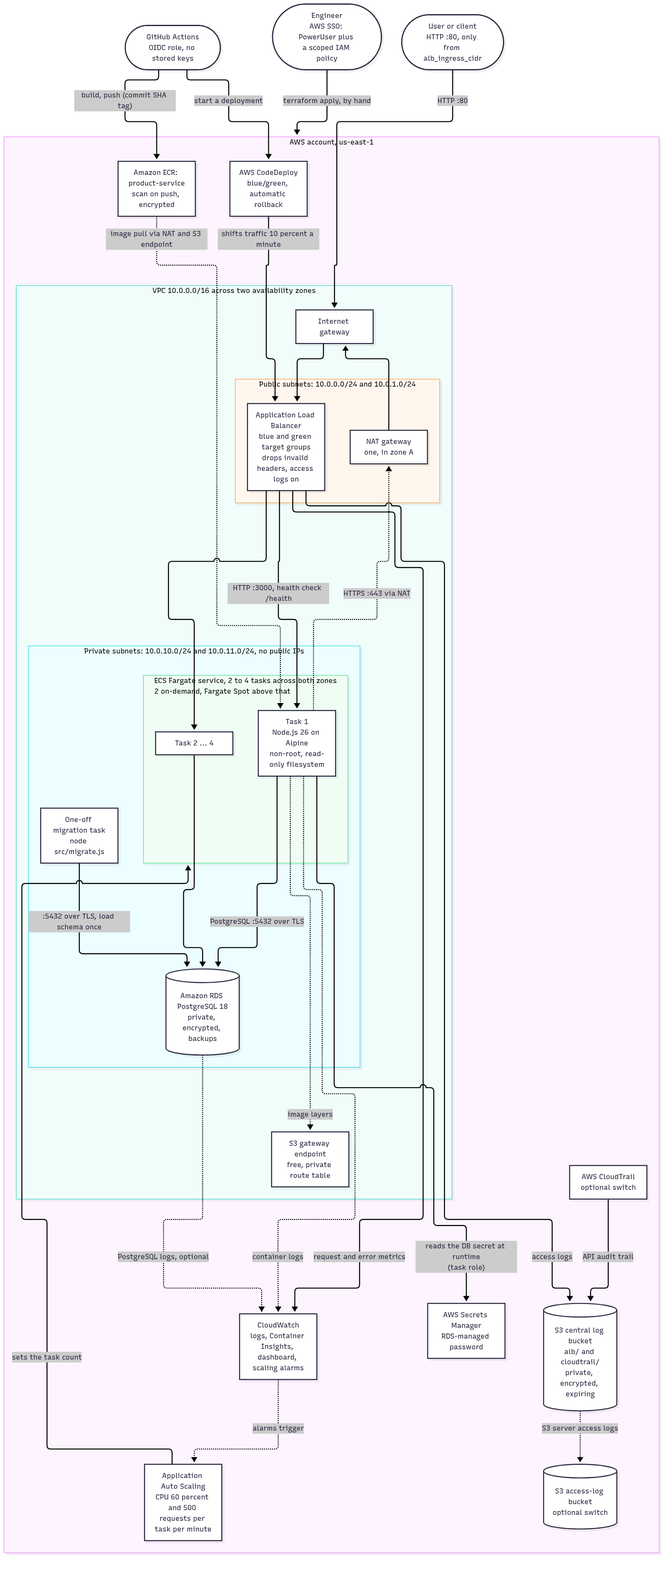
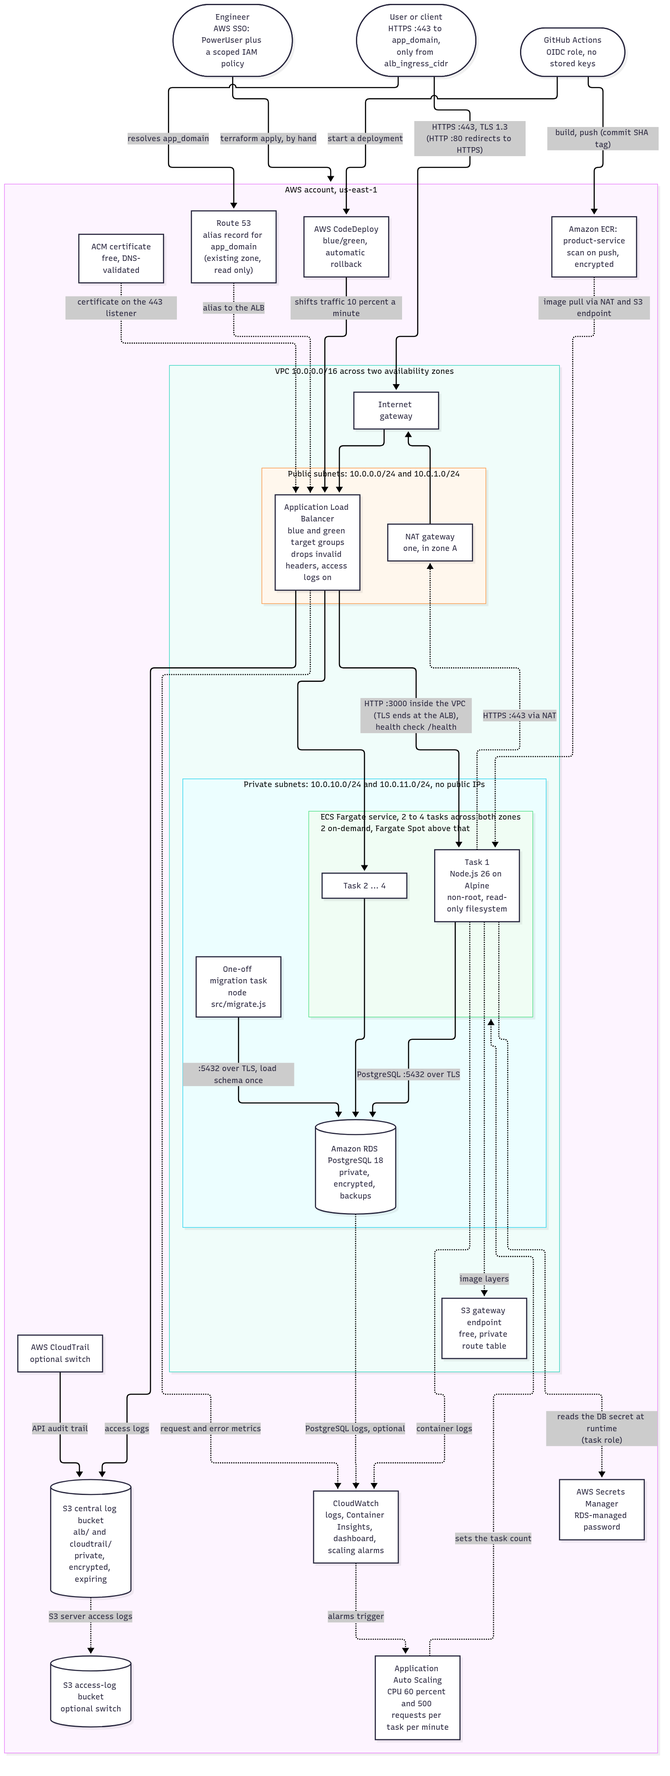
Document HTTPS as applied and update the architecture diagrams
HTTPS with an ACM certificate and a Route 53 name is live and verified (34 checks passed). Docs now describe
HTTPS :443 with a port-80 redirect, TLS ending at the ALB, and the first-apply results. The overview and
request-flow diagrams show Route 53, ACM and the HTTPS path; the HTTP-only gap rows are closed.

diff --git a/docs/Architecture.md b/docs/Architecture.md
@@ -24,7 +24,7 @@ This document explains each AWS service, and how the **principle of least privil
 
 ```mermaid
 flowchart TB
-  user(["User or client<br/>HTTP :80, only from alb_ingress_cidr"])
+  user(["User or client<br/>HTTPS :443 to app_domain,<br/>only from alb_ingress_cidr"])
   dev(["Engineer<br/>AWS SSO: PowerUser plus a scoped IAM policy"])
   gha(["GitHub Actions<br/>OIDC role, no stored keys"])
 
@@ -49,6 +49,8 @@ flowchart TB
       s3ep["S3 gateway endpoint<br/>free, private route table"]
     end
 
+    r53["Route 53<br/>alias record for app_domain<br/>(existing zone, read only)"]
+    acm["ACM certificate<br/>free, DNS-validated"]
     ecr["Amazon ECR: product-service<br/>scan on push, encrypted"]
     cd["AWS CodeDeploy<br/>blue/green, automatic rollback"]
     sm["AWS Secrets Manager<br/>RDS-managed password"]
@@ -59,8 +61,11 @@ flowchart TB
     acc[("S3 access-log bucket<br/>optional switch")]
   end
 
-  user -->|"HTTP :80"| igw --> alb
-  alb -->|"HTTP :3000, health check /health"| t1
+  user -.->|"resolves app_domain"| r53
+  r53 -.->|"alias to the ALB"| alb
+  user -->|"HTTPS :443, TLS 1.3<br/>(HTTP :80 redirects to HTTPS)"| igw --> alb
+  acm -.->|"certificate on the 443 listener"| alb
+  alb -->|"HTTP :3000 inside the VPC (TLS ends at the ALB),<br/>health check /health"| t1
   alb --> t2
   t1 -->|"PostgreSQL :5432 over TLS"| rds
   t2 --> rds
@@ -94,13 +99,16 @@ What happens on `GET /products`, and what each hop is allowed to do:
 sequenceDiagram
   autonumber
   participant C as Client
+  participant R as Route 53
   participant ALB as ALB (public subnet)
   participant T as ECS task (private subnet)
   participant DB as RDS PostgreSQL (private subnet)
   participant L as S3 log bucket
 
-  C->>ALB: GET /products (HTTP :80)
-  Note over C,ALB: ALB security group accepts port 80 only from alb_ingress_cidr
+  C->>R: resolve app_domain
+  R-->>C: ALB address (alias record)
+  C->>ALB: GET /products (HTTPS :443, TLS 1.3, ACM certificate)
+  Note over C,ALB: ALB security group accepts 443 (and 80, which only redirects to HTTPS) from alb_ingress_cidr
   ALB-->>L: access log line (client, target, status, timings)
   ALB->>T: forward to :3000
   Note over ALB,T: app security group accepts :3000 only from the ALB security group
@@ -157,7 +165,7 @@ Infrastructure changes (Terraform) are still reviewed and applied by hand; the p
 | **NAT gateway** | Lets private tasks reach AWS service endpoints over HTTPS | One, in zone A, with an Elastic IP | Outbound only: nothing on the internet can start a connection to a task. A single NAT is a resilience gap. |
 | **S3 gateway endpoint** | Carries ECR image-layer traffic to S3 | Free; attached to the private route table | Pulls stay on the AWS network and bypass the NAT |
 | **Security groups** | Stateful firewalls for each tier | `alb`, `app`, `db`, chained (see [section 7](#7-network-security)) | Each accepts traffic only from the tier in front of it; every rule has a description |
-| **Application Load Balancer** | The only public entry point; spreads traffic over the tasks and checks their health | HTTP :80 listener, target group on :3000 with `/health` checks, 30-second connection draining, access logs on | Source range limited by `alb_ingress_cidr`; drops invalid HTTP headers. HTTP only and no authentication are gaps. |
+| **Application Load Balancer** | The only public entry point; spreads traffic over the tasks and checks their health | HTTPS :443 listener with an ACM certificate (TLS 1.3 policy), HTTP :80 listener that only redirects, target group on :3000 with `/health` checks, 30-second connection draining, access logs on | Source range limited by `alb_ingress_cidr`; drops invalid HTTP headers. TLS ends at the ALB (ALB to task is plain HTTP inside the VPC). No authentication is a gap. |
 | **Amazon ECS on AWS Fargate** | Runs the containers with no servers to manage | Cluster with Container Insights; service of 2 to 4 tasks; 0.25 vCPU and 512 MB each; CodeDeploy blue/green with automatic rollback (the deployment circuit breaker when `enable_blue_green` is off); 60-second health-check grace period; capacity providers `FARGATE` and `FARGATE_SPOT`, with an optional on-demand-plus-Spot strategy (`enable_fargate_spot`, off by default; see [Fargate_Spot.md](Fargate_Spot.md)) | `awsvpc` networking, no public IPs, non-root user, read-only root filesystem, no ECS Exec, task role with no permissions |
 | **Amazon ECR** | Stores the container image | Repository `product-service`, scan on push, AES-256 encryption, keeps the last 10 images | Private; pulled only by the execution role. Mutable tags are a gap. |
 | **Amazon RDS for PostgreSQL** | Stores the products | PostgreSQL 18.6 on `db.t4g.micro`, 20 GB gp3, single-AZ, 7-day backups, tags copied to snapshots | In private subnets, **not publicly accessible**, encrypted at rest, reachable only from the app security group, no outbound rules |
@@ -229,7 +237,7 @@ flowchart TB
 |---|---|---|
 | **0. Supply chain and code** | Secret scanner as a pre-commit hook; `.gitignore` for keys, state and `*.tfvars`; pinned Node and Alpine images; Trivy and `npm audit` on the image; Trivy and Checkov on Terraform; a multi-stage build that leaves npm out; saved plans | Secrets in git, vulnerable dependencies and base images, insecure infrastructure code, unreviewed changes |
 | **1. Identity and governance** | SSO sign-in; the engineer's IAM policy limited to `product-service-*` roles; trust policies requiring `aws:SourceAccount` and `aws:SourceArn`; a budget alert | Stolen long-lived keys, privilege escalation through role creation, the confused-deputy problem, runaway cost |
-| **2. Perimeter** | The ALB is the only internet-facing resource; `alb_ingress_cidr` limits who can reach it; invalid headers are dropped | Direct access to tasks or the database, malformed-request attacks. *Gap: HTTP only, no authentication, no WAF.* |
+| **2. Perimeter** | The ALB is the only internet-facing resource; `alb_ingress_cidr` limits who can reach it; invalid headers are dropped | Direct access to tasks or the database, malformed-request attacks. *Gap: no authentication, no WAF.* |
 | **3. Network segmentation** | Tasks and database in private subnets with no public IPs; security groups that only accept the previous tier; app egress only to 443 and the database; no database egress; S3 gateway endpoint | Lateral movement, data exfiltration over unexpected ports, inbound connections to private resources |
 | **4. Workload** | Non-root `node` user; read-only root filesystem; minimal image with no npm, npx, corepack or yarn; task role limited to the one database secret; no ECS Exec; health checks; CodeDeploy blue/green with automatic rollback (the ECS circuit breaker is used only when `enable_blue_green` is off) | A compromised container being able to write files, escalate, call AWS APIs, or stay broken after a bad release |
 | **5. Data** | RDS encrypted at rest and private; TLS to the database; password only in Secrets Manager; private encrypted S3 buckets with a TLS-only policy; 7-day backups | Reading data at rest or in transit, leaked credentials, public log buckets |
@@ -283,7 +291,7 @@ Traffic is allowed only from the tier in front, and only on the port needed.
 
 Other network controls: tasks and the database have no public IPs; the private route table reaches the internet only through the NAT gateway (outbound only); an S3 gateway endpoint keeps image-layer traffic off the NAT; the load balancer drops invalid HTTP headers.
 `alb_ingress_cidr` is a **required** variable with no default, and `0.0.0.0/0` is refused unless `allow_public_alb = true`, so an open load balancer is always deliberate. (This was added after a plan without the settings file silently fell back to an open default and reopened the load balancer during the AWS test; see [E2E_Test_Results.md](E2E_Test_Results.md).)
-**Gaps:** traffic to the ALB is plain HTTP and the API has no authentication; the 443 egress rule allows any destination.
+**Gaps:** the API has no authentication; the 443 egress rule allows any destination; traffic from the ALB to the tasks is plain HTTP inside the VPC (TLS ends at the ALB).
 
 ## 8. Data protection
 
@@ -293,7 +301,7 @@ Other network controls: tasks and the database have no public IPs; the private r
 | Database credentials | In Secrets Manager, created and managed by RDS, rotated automatically every 7 days (the secret's metadata shows a first rotation shortly after creation; a forced rotation was tested live: a retry race was found and fixed, and the re-test passed; see [Secrets.md](Secrets.md#live-rotation-test)) | Fetched by the app at runtime over TLS with its task role, and again after a rotation ([Secrets.md](Secrets.md)) | The task role, for that one secret; never in code, image, task definition, variables or state |
 | Container image | ECR, AES-256 | Pulled over HTTPS | The execution role |
 | Log files (S3) | SSE-S3, public access blocked, expiring | TLS-only bucket policy | Narrow per-writer policy statements |
-| Client traffic | n/a | **HTTP only** (gap: needs a domain and an ACM certificate) | Limited by `alb_ingress_cidr` Update: `enable_https` is written (off by default, not yet applied): see [HTTPS_and_Domain.md](HTTPS_and_Domain.md). |
+| Client traffic | n/a | **HTTPS** (TLS 1.3, ACM certificate) at `app_domain`; HTTP :80 only redirects. Applied and verified 2026-11-01 ([HTTPS_and_Domain.md](HTTPS_and_Domain.md)) | Limited by `alb_ingress_cidr` |
 
 ## 9. Logging, monitoring and detection
 
@@ -359,7 +367,7 @@ These are deliberate demo trade-offs or work not yet done. The full table, with 
 
 | Gap | Why it matters |
 |---|---|
-| HTTP only, no authentication, no WAF | Traffic is unencrypted and anyone allowed through the security group can read the products. The fix needs a domain and certificate. Update: an HTTPS switch is written, not yet applied ([HTTPS_and_Domain.md](HTTPS_and_Domain.md)); authentication and a WAF are still open. |
+| No authentication, no WAF | Anyone allowed through the security group can read the products. The load balancer admits only `alb_ingress_cidr` by default, because of this. (HTTPS is done: see [HTTPS_and_Domain.md](HTTPS_and_Domain.md).) |
 | Database TLS does not verify the server certificate | A network-position attacker could in theory impersonate the database |
 | Mutable ECR tags | `latest` can be overwritten, and rollbacks by tag are unreliable |
 | Single NAT gateway and single-AZ RDS | Not resilient to a zone failure |

diff --git a/README.md b/README.md
@@ -18,7 +18,7 @@ The complete picture, with every AWS service, the request and deployment flows, 
 
 ```mermaid
 flowchart LR
-  C["Client"] -->|"HTTP :80"| ALB["Application Load Balancer<br/>public subnets"]
+  C["Client"] -->|"HTTPS :443 (80 redirects)"| ALB["Application Load Balancer<br/>public subnets"]
   ALB -->|":3000, /health checks"| T["ECS Fargate tasks (2 to 4)<br/>private subnets<br/>Node.js 26, non-root"]
   AS["Application Auto Scaling<br/>target tracking: CPU 60%,<br/>500 requests per task per minute"] -.->|"sets the task count"| T
   ALB -.->|"RequestCountPerTarget<br/>and task CPU metrics"| AS
@@ -52,7 +52,7 @@ flowchart LR
 | Area | What is in place |
 |---|---|
 | **Network exposure** | Only the ALB is public. Tasks and the database are in private subnets with no public IPs, and the database has `publicly_accessible = false`. |
-| **Security groups** | Internet → ALB (80) → app (3000) → database (5432). The database group admits only the app group, and the ALB can only send to port 3000 inside the VPC. The app group's outbound rules allow only TCP 443 (AWS services) and PostgreSQL to the database group. The ALB's source range is a **required** variable (`alb_ingress_cidr`, no default), and `0.0.0.0/0` is refused unless `allow_public_alb = true`, so an open load balancer is always a deliberate choice. (A plan once silently fell back to an open default during the AWS test; see [docs/E2E_Test_Results.md](docs/E2E_Test_Results.md#incident-the-alb-was-briefly-open-to-the-internet).) |
+| **Security groups** | Internet → ALB (443, and 80 which only redirects) → app (3000) → database (5432). The database group admits only the app group, and the ALB can only send to port 3000 inside the VPC. The app group's outbound rules allow only TCP 443 (AWS services) and PostgreSQL to the database group. The ALB's source range is a **required** variable (`alb_ingress_cidr`, no default), and `0.0.0.0/0` is refused unless `allow_public_alb = true`, so an open load balancer is always a deliberate choice. (A plan once silently fell back to an open default during the AWS test; see [docs/E2E_Test_Results.md](docs/E2E_Test_Results.md#incident-the-alb-was-briefly-open-to-the-internet).) |
 | **IAM trust and deployments** | Both ECS roles can only be assumed by ECS acting for tasks in this account (`aws:SourceAccount` and `aws:SourceArn` conditions). The ECS service has a deployment circuit breaker with automatic rollback. An S3 gateway endpoint keeps image-layer pulls off the NAT gateway. |
 | **Database credentials** | `manage_master_user_password = true`: RDS generates the password and stores it in Secrets Manager. The credentials are never in code, variables, the image, the task definition or the Terraform state. The app reads the secret itself at runtime with its task role, and fetches it again after a rotation (see [docs/Secrets.md](docs/Secrets.md)). |
 | **Encryption** | RDS storage is encrypted. The app connects to RDS over TLS (`DB_SSL` defaults to on). ECR is encrypted at rest. |
@@ -89,7 +89,7 @@ What is still open after the scans in [docs/vulnerability-scan-report.md](docs/v
 | Risk | Gap | Detail | Planned fix |
 |---|---|---|---|
 | Medium | **No authentication on the API** | Anyone who can reach the ALB can read `/products` | A Cognito or JWT authorizer, or restrict the ALB by CIDR |
-| Medium | **HTTP only** | Traffic between the client and the ALB is unencrypted (Trivy CRITICAL AWS-0054; Checkov CKV_AWS_2 and related) | ACM certificate, HTTPS listener and an HTTP redirect (needs a domain) **Update:** an `enable_https` switch (ACM certificate, 443 listener, redirect, Route 53 alias) is written and off by default; not yet applied ([docs/HTTPS_and_Domain.md](docs/HTTPS_and_Domain.md)). |
+| ~~Medium~~ Closed | ~~**HTTP only**~~ | Closed on 2026-11-01: the app is served over HTTPS at a Route 53 name with an ACM certificate (TLS 1.3), and port 80 redirects ([docs/HTTPS_and_Domain.md](docs/HTTPS_and_Domain.md)). The ALB to task hop is plain HTTP inside the VPC. `enable_https` is off by default in the code (it needs a domain) and on in the deployed demo | Authentication and a WAF remain open (next rows) |
 | Low | **Brotli CVE-2026-111497: patched per public sources, not tested** | Node 26.12.1 and later cherry-pick the upstream fix, so the `1.2.0` the image reports is a stale label. The 26.13.0 claim comes from a secondary source, and the image was not tested with crafted input. Trivy can't see this class of issue. | Keep the base image current, and read the official 26.13.0 notes |
 | Low | **HTTPS egress to anywhere from the app security group** | Outbound is already limited to TCP 443 and PostgreSQL, but 443 goes to `0.0.0.0/0` so tasks can reach AWS service endpoints through the NAT (Trivy flags this, AWS-0104) | Interface VPC endpoints for ECR, Secrets Manager and CloudWatch Logs (about $0.01 an hour each per zone), then remove the rule |
 | Low | **Database TLS doesn't verify the server certificate** | The app encrypts its connection to RDS, but `db.js` defaults to `rejectUnauthorized: false`, so the RDS certificate isn't checked. Someone with a network position inside the VPC could in theory impersonate the database. The service was run against real RDS over TLS in the AWS test (`/health` passes). | Bundle the AWS RDS certificate authority file into the image and set `DB_SSL_REJECT_UNAUTHORIZED=true` |
@@ -192,7 +192,7 @@ docs/
 ├── Load_Test_and_Optimization.md # the 2026-11-02 load test with CloudWatch numbers and charts, and every optimization made so far
 ├── Secrets.md                    # database credentials in Secrets Manager: how the app reads them, rotation, IAM, rollout, debugging
 ├── Disaster_Recovery_Exploration.md # Aurora Serverless v2 and Global Database explored; pilot-light design, RTO/RPO, cost, open risks (design only, not built)
-├── HTTPS_and_Domain.md           # enable_https: ACM certificate, 443 listener, redirect, Route 53 alias; how to turn it on and the demo-only public window (written, not yet applied)
+├── HTTPS_and_Domain.md           # enable_https: ACM certificate, 443 listener, redirect, Route 53 alias; how to turn it on and the demo-only public window (applied and verified 2026-11-01)
 ├── CICD.md                       # GitHub Actions + CodeDeploy blue/green pipeline: flow, one-time setup, rollback, security design
 ├── Logging_Runbook.md            # turn on, verify, read and turn off ALB, CloudTrail, S3 access and RDS logs
 ├── images/                       # CloudWatch dashboard charts from the AWS test (8) and architecture diagram images (6)
@@ -274,7 +274,7 @@ needed); the commands are in the [runbook](docs/runbook.md#2-load-the-database-s
 |---|---|---|
 | **Only partly tested live** | The stack was deployed and verified in AWS once (see [docs/E2E_Test_Results.md](docs/E2E_Test_Results.md)). Not tested: stopping a task and the replacement, a deployment rollback, and the runbook's rollback and scaling commands | Run those tests and record the results |
 | **Schema migration is run by hand** | The one-off Fargate task in `terraform/migrate.tf` runs `node src/migrate.js` from the app image to load `db/schema.sql`. It worked in AWS (exit 0, `/products` returned the 3 products afterwards), and it is safe to run again. It is started manually with `aws ecs run-task`, and it needs an image that was built after `migrate.js` was added. | Run it from a pipeline after each deploy |
-| **HTTP only** | Traffic between the client and the ALB is unencrypted | An ACM certificate, an HTTPS listener and an HTTP redirect (needs a domain) **Update:** an `enable_https` switch (ACM certificate, 443 listener, redirect, Route 53 alias) is written and off by default; not yet applied ([docs/HTTPS_and_Domain.md](docs/HTTPS_and_Domain.md)). |
+| ~~**HTTP only**~~ | Done 2026-11-01: HTTPS at a Route 53 name with an ACM certificate, and port 80 redirects | See [docs/HTTPS_and_Domain.md](docs/HTTPS_and_Domain.md) |
 | **No authentication on the API** | Anyone who can reach the ALB can read the products | A Cognito or JWT authorizer, or restrict the ALB by CIDR |
 | **Pipeline: a bad release is safe but not self-failing** | GitHub Actions + CodeDeploy blue/green ([docs/CICD.md](docs/CICD.md)) deployed successfully many times. A deliberately broken release (a container that crashes at start-up) was deployed on 2026-11-02: no request failed among the 593 sent (200 each; the probe has a 9-minute gap while the test machine slept, covered by AWS-side metrics), the broken tasks never received traffic, and an automatic rollback restored the original state in about 35 seconds ([docs/Rollback_Test.md](docs/Rollback_Test.md)). But CodeDeploy did not fail the deployment by itself in 30 minutes (it kept retrying), so the rollback was triggered by hand | Add an alarm or a pre-traffic health hook so a bad release fails and rolls back automatically, and a shorter workflow timeout |
 | **Rotation tested, one request can still fail** | Forced password rotations were tested live ([docs/Secrets.md](docs/Secrets.md#live-rotation-test)): after a retry race was fixed, 100 of 100 parallel requests succeeded, and under sustained load (about 86 requests a second, 5,448 in the peak minute) **33,754 of 33,755 succeeded**, with Auto Scaling adding tasks during the rotation. The one failure is the brief window while RDS changes the password. A rotation during a blue/green deployment was tested too: the deployment succeeded and 15,951 of 15,953 requests returned 200 (the 2 failures were inside the rotation window), with 0 unhealthy hosts | Watch the first scheduled (7-day) rotation |

diff --git a/terraform/README.md b/terraform/README.md
@@ -39,7 +39,7 @@ flowchart TB
   s3["Amazon S3<br/>(ECR image layers)"]
   s3ep["S3 gateway endpoint<br/>(free, in the private route table)"]
 
-  user -->|"HTTP :80 (from alb_ingress_cidr)"| igw
+  user -->|"HTTPS :443 (from alb_ingress_cidr); :80 redirects"| igw
   igw --> albA
   igw --> albB
   albA -->|":3000"| taskA
@@ -100,7 +100,7 @@ flowchart LR
 ### Known network limits
 
 - **Single NAT gateway:** if zone A fails, tasks in zone B lose outbound access (image pulls, secret reads, logs). One NAT per zone fixes this at about $0.045/hr more each.
-- **HTTP only:** the listener is on port 80 with no TLS between the client and the ALB. With `enable_https` (off by default, not yet applied) it serves HTTPS and redirects port 80; see [../docs/HTTPS_and_Domain.md](../docs/HTTPS_and_Domain.md).
+- **TLS ends at the ALB:** clients use HTTPS (ACM certificate, TLS 1.3) with `enable_https`, and port 80 only redirects; the hop from the ALB to the tasks is plain HTTP on port 3000 inside the VPC. `enable_https` is off by default in the code (it needs a domain) and on in the deployed demo; see [../docs/HTTPS_and_Domain.md](../docs/HTTPS_and_Domain.md).
 - **Single-AZ database:** a zone failure takes the database down until RDS recovers it; set `multi_az = true` for a standby.
 - **Outbound HTTPS to the whole internet:** the `app` group allows TCP 443 to `0.0.0.0/0` (and PostgreSQL to the database group, nothing else), because the targets are AWS public endpoints behind a NAT. Interface VPC endpoints for ECR, Secrets Manager and CloudWatch Logs would let you remove even that, at about $0.01 an hour per endpoint per zone.
 
@@ -158,7 +158,7 @@ flowchart LR
 | `enable_cloudtrail` | `false` | Create a multi-region CloudTrail trail (account-wide; the first trail's management events are free) |
 | `enable_s3_access_logging` | `false` | Record who reads or changes the central log bucket's files (S3 server access logs), in a separate small bucket |
 | `enable_rds_logs` | `false` | Export PostgreSQL and upgrade logs to CloudWatch Logs (14-day retention) |
-| `alb_ingress_cidr` | **none (required)** | CIDR allowed to reach the load balancer on port 80. Set it to your own address as a `/32` (in the untracked `terraform/demo.auto.tfvars`, or with `-var`; never commit your address). `0.0.0.0/0` is refused unless `allow_public_alb` is true. |
+| `alb_ingress_cidr` | **none (required)** | CIDR allowed to reach the load balancer on port 80, and on 443 with `enable_https`. Set it to your own address as a `/32` (in the untracked `terraform/demo.auto.tfvars`, or with `-var`; never commit your address). `0.0.0.0/0` is refused unless `allow_public_alb` is true. |
 | `allow_public_alb` | `false` | Set to `true` to allow `alb_ingress_cidr = "0.0.0.0/0"`, which opens the load balancer to the whole internet. Off by default, so an open load balancer is always deliberate. |
 
 ## Usage
@@ -267,7 +267,7 @@ traffic. Run `terraform destroy` when finished.
 
 ## Production hardening
 
-- HTTPS listener with an ACM certificate, and redirect HTTP to HTTPS
+- ~~HTTPS listener with an ACM certificate, and redirect HTTP to HTTPS~~ done (`enable_https`, 2026-11-01)
 - One NAT gateway per AZ
 - `multi_az = true`, `deletion_protection = true`, `skip_final_snapshot = false` on RDS
 - A dedicated state bucket per project (state is already in S3 with locking, in a shared bucket)

diff --git a/docs/HTTPS_and_Domain.md b/docs/HTTPS_and_Domain.md
@@ -1,6 +1,6 @@
 # HTTPS and a custom domain (Route 53 + ACM)
 
-The load balancer serves plain HTTP on its own address by default. With `enable_https = true` the app is served at a name in a Route 53 hosted zone you already own, over HTTPS, and port 80 redirects to it. **Written, not yet applied: the first apply and its results will be recorded here.**
+The load balancer serves plain HTTP on its own address by default. With `enable_https = true` the app is served at a name in a Route 53 hosted zone you already own, over HTTPS, and port 80 redirects to it. **Applied and verified on the live stack on 2026-11-01** (results at the end).
 
 ## What it adds
 
@@ -57,3 +57,20 @@ While it is open: anyone can call `GET /products`, load can scale tasks up and r
 - **The ALB's own DNS name no longer matches the certificate.** Use `app_domain`; `curl -k` only for debugging.
 - **Route 53 health checks** cannot reach an ALB that admits only one address; use a CloudWatch-alarm health check if that is needed later.
 - **HTTP-only scanner exceptions** in `.checkov.yaml` stay, because the default (switch off) code still has an HTTP-only listener.
+
+## Result of the first apply (2026-11-01)
+
+The plan was 6 to add, 2 to change, 0 to destroy (the certificate and its validation record, the 443 listener and the redirect rule, the alias record, a 443 rule on the ALB security group, and the CodeDeploy deployment group switching to the 443 listener). The first plan wrongly replaced the ALB security group because a description had been reworded (AWS cannot change it in place); that was fixed before the apply.
+
+| Check | Result |
+|---|---|
+| DNS | The name resolves to the load balancer (alias record) |
+| Certificate | Valid Amazon certificate for the name, valid until 2027-05-18; verified by curl |
+| `http://` | 301 to `https://` (a redirect followed ends at a 200) |
+| `GET /health`, `GET /products` over HTTPS | 200 with `{"status":"ok"}` and the product data |
+| `GET /nope` over HTTPS | 404 |
+| TLS | TLS 1.3; TLS 1.1 refused |
+| ALB's own address over HTTPS | Fails certificate verification, as designed |
+| `verify-deployment.sh --skip-plan` | 34 passed, 0 failed, 1 skipped (the drift check); its endpoint checks run over HTTPS |
+
+**What happened with the live target group:** CodeDeploy had left traffic on the green target group, so the new 443 listener (which starts on blue) answered 503. One `aws elbv2 modify-listener` pointed it at green, and about a minute later (the change takes a little while to apply) HTTPS answered 200. This is the step 3 above; check the live group first, as written.

diff --git a/docs/Deployment.md b/docs/Deployment.md
@@ -67,7 +67,7 @@ aws ecs describe-services --cluster $CLUSTER --services $SERVICE \
   --query 'services[0].[runningCount,taskSets[].[status,stabilityStatus,runningCount]]' --output text
 ```
 
-In the console: CodeDeploy, Deployments, the latest one shows a traffic shifting progress bar. EC2, Load Balancers, `product-service-alb`, Listeners and rules, HTTP:80 shows the weights.
+In the console: CodeDeploy, Deployments, the latest one shows a traffic shifting progress bar. EC2, Load Balancers, `product-service-alb`, Listeners and rules, the HTTPS:443 listener shows the weights (HTTP:80 only redirects).
 
 `blue` is `product-service-tg` and `green` is `product-service-tg-green`. They swap roles on every deployment.
 
@@ -93,7 +93,7 @@ terraform apply tfplan                          # applies exactly that plan
 
 ## 3a. If your IP address changes
 
-The load balancer accepts port 80 only from the address in `alb_ingress_cidr` (your own public IP as a `/32`), so when your internet address changes (a new network, a router restart, a home ISP rotating addresses) **you are locked out of your own demo**, while the application keeps running normally for everyone else who is allowed.
+The load balancer accepts ports 443 and 80 (80 only redirects to HTTPS) only from the address in `alb_ingress_cidr` (your own public IP as a `/32`), so when your internet address changes (a new network, a router restart, a home ISP rotating addresses) **you are locked out of your own demo**, while the application keeps running normally for everyone else who is allowed.
 
 **Symptoms:** `curl` to the load balancer hangs and times out, a browser spins, and `scripts/verify-deployment.sh` fails its endpoint checks. Nothing is wrong with the service itself (check with `aws ecs describe-services`).
 
@@ -148,7 +148,7 @@ aws ecs describe-services --cluster $CLUSTER --services $SERVICE --query 'servic
 terraform -chdir=terraform plan                                             # "No changes"
 ```
 
-The load balancer accepts port 80 only from the address in `alb_ingress_cidr`. If `curl` hangs, your public IP has probably changed (see section 6).
+The load balancer accepts ports 443 and 80 (80 only redirects to HTTPS) only from the address in `alb_ingress_cidr`. If `curl` hangs, your public IP has probably changed (see section 6).
 
 ## 5. Roll back
 
